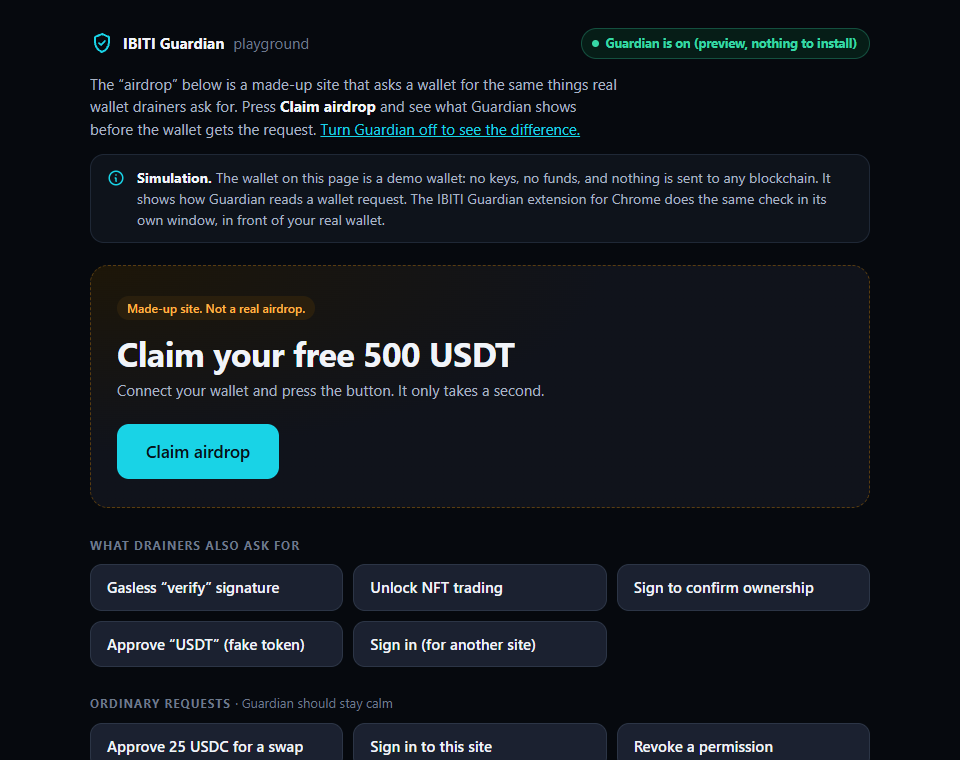
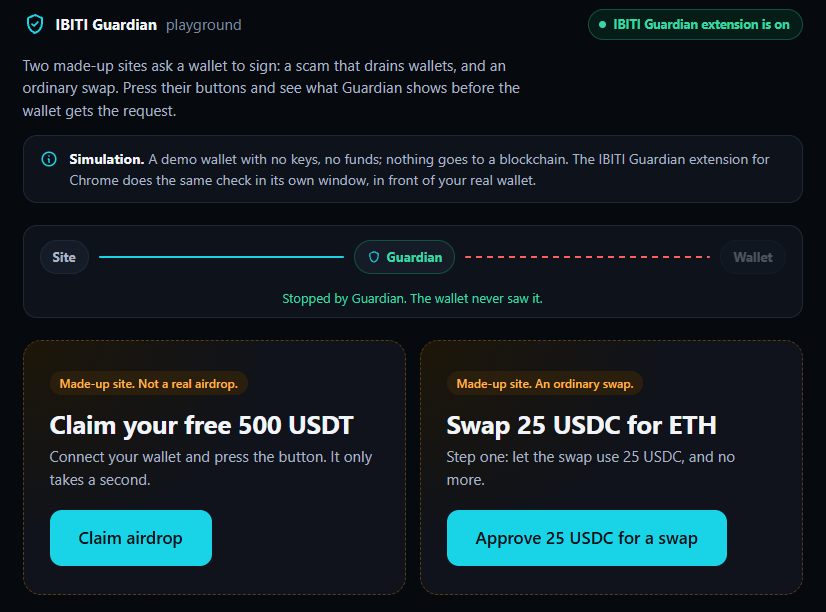
fix(ai): Gemini Nano no longer runs on forever; real screenshots of the new window
- Gemini Nano's response constraint allowed any whole number for the
  reasons it picks, and on the claim it wrote "reasons": [1, 2301000…]
  without end (seen in the owner's Chrome: minutes of CPU, the window's
  90 s time-out each time). DEVICE_READING_SCHEMA lists the numbers it may
  pick; the same prompt then answered in 29–33 s, three times out of three.
  The cloud keeps READING_SCHEMA.
- Aborting a prompt does not stop Chrome generating, even after the page
  closes; destroying the session does. The window keeps the sessions it
  creates and destroys them when it stops waiting (90 s) or goes away.
  e2e checks the session is destroyed on the time-out.
- The status chip goes under the card title when there is no room.
- README: new screenshots from the owner's Chrome with real Gemini Nano
  ("Continue" read on device, 21.9 s, nothing sent) and a real cloud
  analysis (12.6 s); the playground with the request stopped.

Unit 57/57; e2e 38/38, swap, tamper, site pass.

diff --git a/src/ai/engine.js b/src/ai/engine.js
@@ -22,7 +22,7 @@ import { GoogleAIBackend, InferenceMode, getAI, getGenerativeModel } from 'fireb
 import { cloudReady, startAppCheck } from 'guardian-appcheck';
 import { firebaseConfig } from 'guardian-config';
 import { ON_DEVICE_PARAMS, deviceModelStatus } from './device.js';
-import { DEEP_SCHEMA, READING_SCHEMA } from './reading.js';
+import { DEEP_SCHEMA, DEVICE_READING_SCHEMA, READING_SCHEMA } from './reading.js';
 
 /** False when this build has no way to pass App Check, so cloud is off. */
 export { cloudReady };
@@ -69,12 +69,51 @@ export async function downloadDeviceModel(onProgress) {
 // schema to it as well (measured on Gemini Nano: it read more requests right).
 const deviceParams = (signal) => ({
   ...ON_DEVICE_PARAMS,
-  promptOptions: { responseConstraint: READING_SCHEMA, omitResponseConstraintInput: true, ...(signal ? { signal } : {}) },
+  promptOptions: { responseConstraint: DEVICE_READING_SCHEMA, omitResponseConstraintInput: true, ...(signal ? { signal } : {}) },
 });
 const cloudParams = (schema) => ({
   model: CLOUD_MODEL,
   generationConfig: { responseMimeType: 'application/json', responseJsonSchema: schema, temperature: 0.2 },
 });
+
+// Chrome goes on generating after a prompt is aborted, even after its page
+// is closed: seen with Gemini Nano on 2026-11-17, minutes of CPU after the
+// window had stopped waiting. Destroying the session stops it at once. The
+// SDK keeps its session to itself, so the sessions created in this window
+// are kept here too, and destroyed when the window stops waiting for Gemini
+// Nano or goes away.
+const sessions = new Set();
+function stopDevice() {
+  for (const session of sessions) {
+    try {
+      session.destroy();
+    } catch {
+      // already gone
+    }
+  }
+  sessions.clear();
+}
+function keepSessions() {
+  const lm = self.LanguageModel;
+  if (!lm || keepSessions.done) return;
+  keepSessions.done = true;
+  try {
+    const create = lm.create.bind(lm);
+    lm.create = async (...args) => {
+      const session = await create(...args);
+      sessions.add(session);
+      return session;
+    };
+    self.addEventListener('pagehide', stopDevice);
+  } catch {
+    // Chrome would not let it be wrapped: the time-out still stops waiting.
+  }
+}
+/** Gemini Nano stops generating when `signal` aborts (the window's time-out). */
+function stopOnAbort(signal) {
+  keepSessions();
+  if (signal) signal.addEventListener('abort', stopDevice, { once: true });
+}
 
 /** One answer, timed, with where the SDK ran it. */
 async function answer(model, prompt, signal) {
@@ -93,6 +132,7 @@ async function answer(model, prompt, signal) {
  * @returns {{text: string, ms: number, source: string}}  text: the form, as JSON
  */
 export async function readOnDevice(prompt, { deviceSignal } = {}) {
+  stopOnAbort(deviceSignal);
   const model = getGenerativeModel(onDevice(), {
     mode: InferenceMode.ONLY_ON_DEVICE,
     onDeviceParams: deviceParams(deviceSignal),
@@ -118,10 +158,12 @@ export async function readOnDevice(prompt, { deviceSignal } = {}) {
  *
  * `signal` stops a cloud request that has not gone out yet (the user turned
  * the permission off): the SDK checks it right before sending.
- * `deviceSignal` stops Gemini Nano's answer (the window's time-out).
+ * `deviceSignal` stops Gemini Nano's answer (the window's time-out), and
+ * its generation with it.
  * @returns {{text: string, ms: number, source: string}}
  */
 export async function readHybrid(prompt, { deviceReady = false, signal, deviceSignal } = {}) {
+  stopOnAbort(deviceSignal);
   const model = getGenerativeModel(deviceReady ? onDevice() : inCloud(), {
     mode: InferenceMode.PREFER_ON_DEVICE,
     onDeviceParams: deviceParams(deviceSignal),

diff --git a/test/reading.test.js b/test/reading.test.js
@@ -623,3 +623,23 @@ test('the button check, after the review of 2026-11-18: revoke phrases, lure wor
   const pattern = (file) => readFileSync(new URL(file, import.meta.url), 'utf8').match(/const ADDRESS = (.*);/)[1];
   assert.equal(pattern('../src/inpage.js'), pattern('../src/analyzer/promise.js'));
 });
+
+test('Gemini Nano’s response constraint leaves nothing to run on with', async () => {
+  const { READING_SCHEMA, DEVICE_READING_SCHEMA, REASON_NUMBERS } = await import('../src/ai/reading.js');
+  // The same form as the cloud's schema...
+  assert.deepEqual(Object.keys(DEVICE_READING_SCHEMA.properties), Object.keys(READING_SCHEMA.properties));
+  assert.deepEqual(DEVICE_READING_SCHEMA.required, READING_SCHEMA.required);
+  assert.equal(DEVICE_READING_SCHEMA.additionalProperties, false);
+  // ...with every value bounded: fixed words, at most two listed numbers.
+  for (const [name, field] of Object.entries(DEVICE_READING_SCHEMA.properties)) {
+    if (name === 'reasons') continue;
+    assert.ok(Array.isArray(field.enum), `${name} is one of fixed words`);
+  }
+  const { reasons } = DEVICE_READING_SCHEMA.properties;
+  assert.equal(reasons.maxItems, 2);
+  assert.deepEqual(reasons.items.enum, REASON_NUMBERS);
+  // Every reason a request on the demo has can be picked.
+  for (const [name, result] of Object.entries(R)) {
+    assert.ok(result.reasons.length <= REASON_NUMBERS.length, `${name}: ${result.reasons.length} reasons`);
+  }
+});

diff --git a/src/ai/reading.js b/src/ai/reading.js
@@ -63,6 +63,19 @@ export const READING_SCHEMA = {
   additionalProperties: false,
 };
 
+// The same form as Gemini Nano's response constraint. A whole number of any
+// length is valid JSON, and constrained to "integer" Nano once wrote
+// "reasons": [1, 2301000000…] and never stopped (2026-11-17, a claim on the
+// demo). Listing the numbers it may pick leaves it nothing to run on with.
+export const REASON_NUMBERS = Array.from({ length: 20 }, (_, i) => i + 1);
+export const DEVICE_READING_SCHEMA = {
+  ...READING_SCHEMA,
+  properties: {
+    ...READING_SCHEMA.properties,
+    reasons: { type: 'array', items: { type: 'integer', enum: REASON_NUMBERS }, maxItems: 2 },
+  },
+};
+
 // ── What the analyzer decoded, in the form's terms ─────────────────────────
 
 const sub = (r) => r.subject || {};

diff --git a/extension/review.css b/extension/review.css
@@ -175,11 +175,13 @@ section > h2 {
   border-radius: var(--radius);
 }
 
+/* The title stays on one line; a long status chip goes under it instead. */
 .ai-head {
   display: flex;
+  flex-wrap: wrap;
   align-items: center;
   justify-content: space-between;
-  gap: 8px;
+  gap: 6px 8px;
   margin-bottom: 8px;
 }
 
@@ -187,6 +189,7 @@ section > h2 {
   display: inline-flex;
   align-items: center;
   gap: 7px;
+  white-space: nowrap;
 }
 
 .ai-title svg {

diff --git a/README.md b/README.md
@@ -14,7 +14,7 @@ does the same check in front of your real wallet).
 <a href="https://youtu.be/1xGWgzLbLEM"><img src="docs/video.jpg" alt="Watch the video: IBITI Guardian for Chrome — know what you sign" width="640"></a>
 
 <p>
-  <img src="docs/review-on-device.png" alt="Guardian holding an unlimited approval: the sentence and the warnings are written by code; Gemini Nano read the request on the device" width="360">
+  <img src="docs/review-on-device.png" alt="Guardian holding an unlimited approval behind a button that said Continue: Gemini Nano, on the device, read the button as an offer to receive something; code shows that it does not match what the request does" width="360">
   &nbsp;
   <img src="docs/review-cloud.png" alt="The optional cloud analysis through Firebase AI Logic: a scam pattern and things to check, picked from fixed lists that code checks" width="360">
 </p>
@@ -168,9 +168,14 @@ reads the request once more, and its answer is checked the same way.
 
 While Gemini reads, the window counts the seconds and says the user can
 decide without it: the facts, the warnings and both buttons are there from
-the start. Gemini Nano usually answers in 15–30 seconds; it has twice not
-answered at all, so after 90 seconds Guardian stops waiting, says *no answer
-in 90 s*, and treats it like an answer that did not pass.
+the start. Gemini Nano usually answers in 15–30 seconds. Under a schema that
+allowed any whole number, it once wrote `"reasons": [1, 2301000000…` and
+never stopped; the form for Gemini Nano now lists the numbers it may pick
+(`DEVICE_READING_SCHEMA`), and the same request then took 29–33 seconds,
+three times out of three. Should Gemini Nano still not answer, after 90
+seconds Guardian stops waiting, says *no answer in 90 s*, treats it like an
+answer that did not pass, and destroys the session: aborting a prompt does
+not stop Chrome generating, destroying the session does.
 
 What this does and does not prove: Gemini cannot put an amount, an address,
 a token, a role or a direction on screen that the decoder did not find, and
@@ -228,7 +233,7 @@ AI). Without it, press **Allow cloud AI as a fallback** once, and Gemini in
 the cloud reads the requests instead for the rest of the visit. The facts, the
 decision and the deeper analysis do not depend on either.
 
-<img src="docs/playground.png" alt="The hosted playground" width="640">
+<img src="docs/playground.png" alt="The playground: a drainer and an ordinary swap side by side, and the strip showing the request stopped by Guardian" width="640">
 
 ## Build the extension
 
